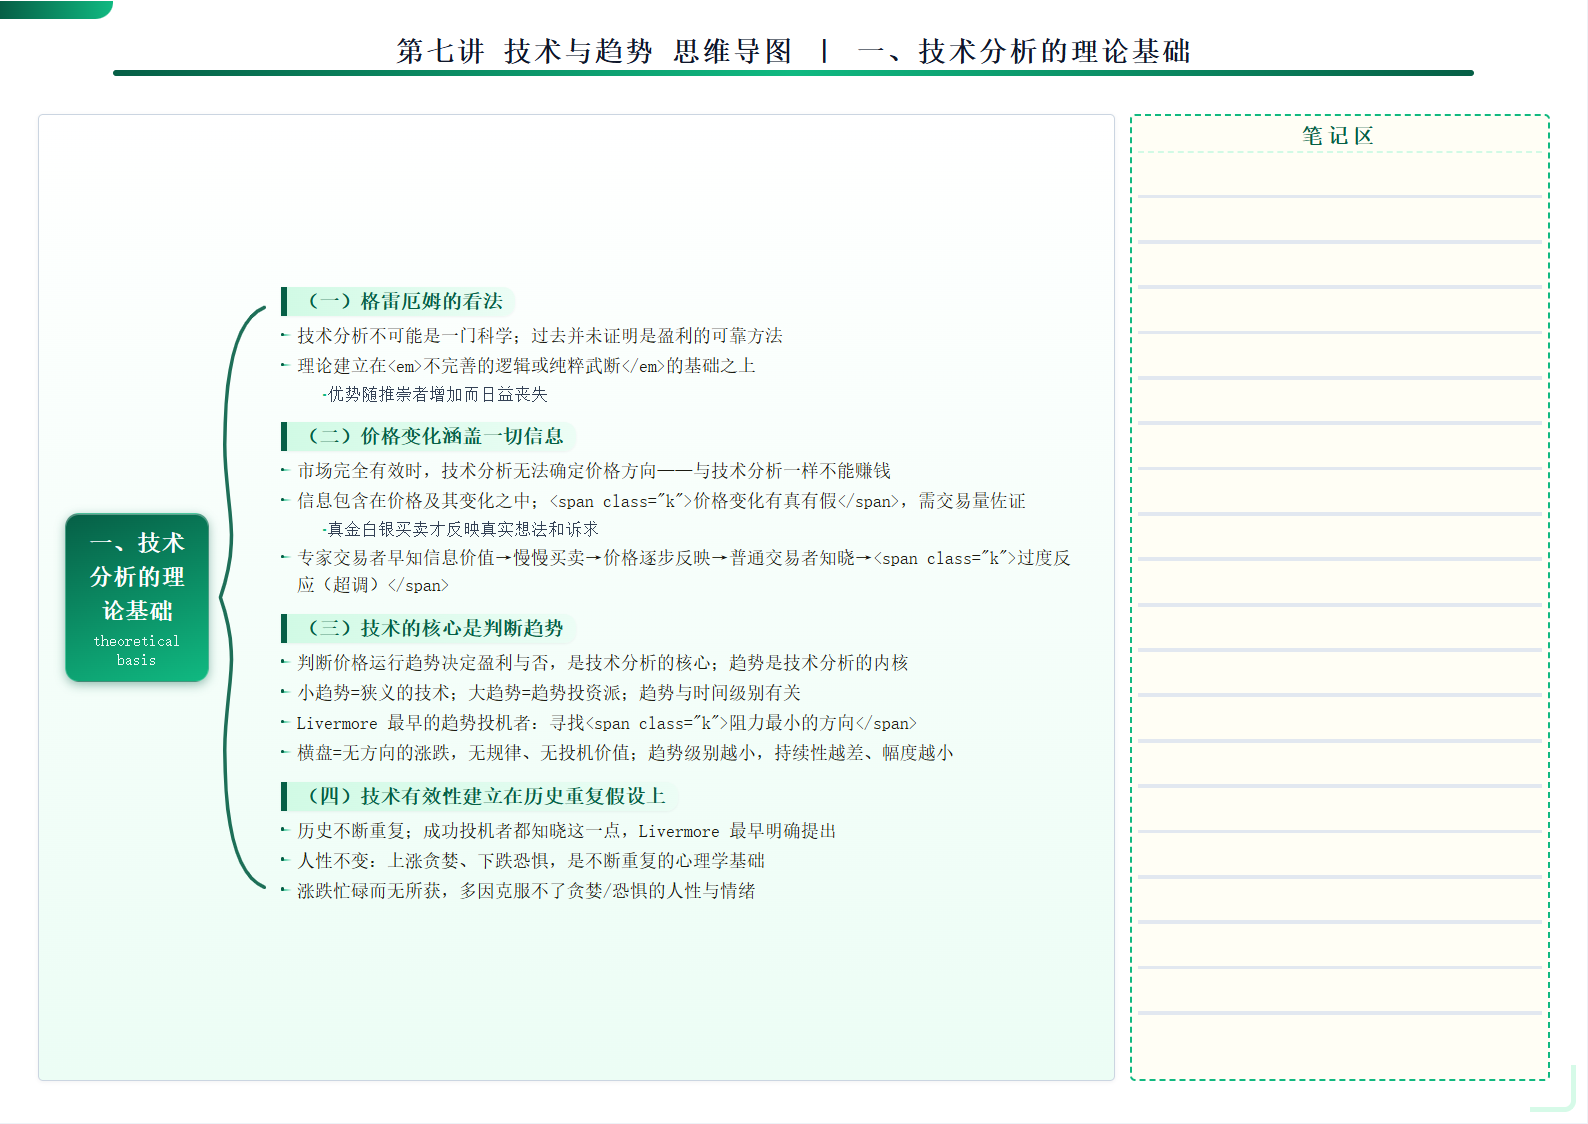
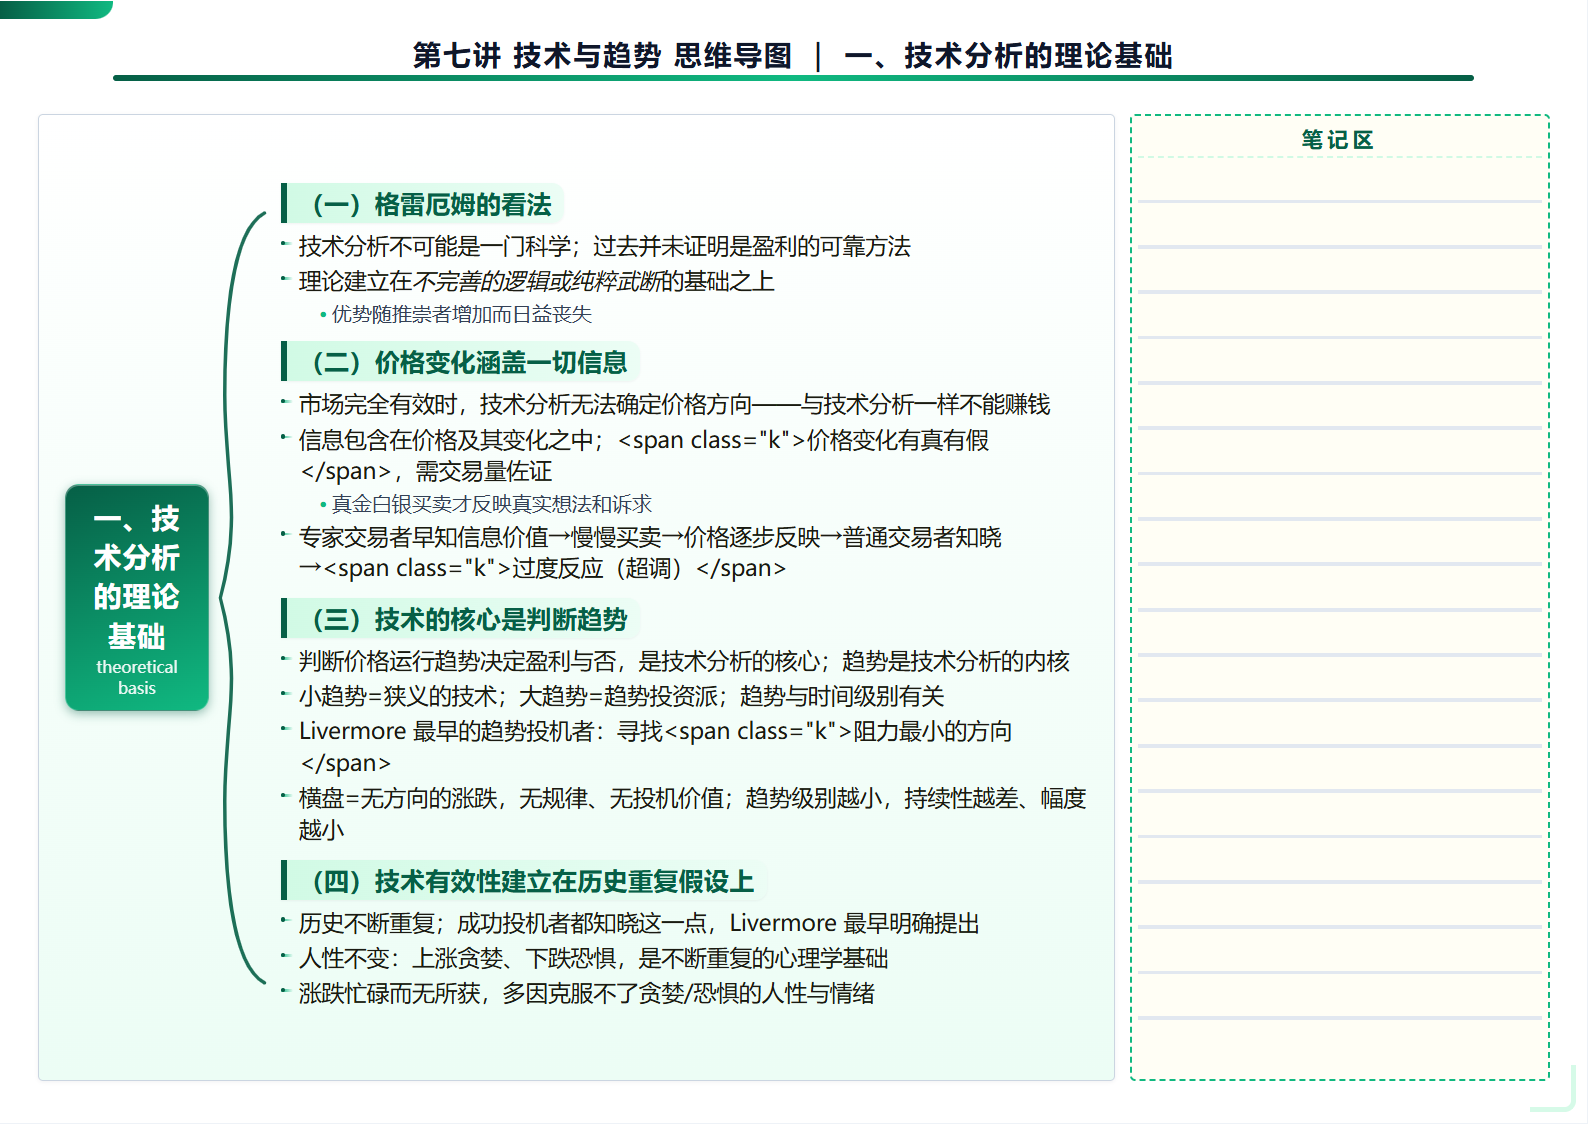
feat: 字号更大并铺满页面 — 条目 17pt 起步、space-evenly 均匀分布
- generator: 条目字号 13.5→17pt 起步（密集页自动降至 12.5–15pt），根 21pt / 分组 19pt / 子条目 15pt；预算 238mm 留余量防溢出
- .mm/.mm-stack 改 space-evenly，内容均匀铺满页面（填充率 60–96%），不再垂直居中留白
- skill/README: 同步字号与铺满规范
- 实测第七讲 8 页全部无溢出，条目 17.3–22.7px

diff --git a/src/host/generator.ts b/src/host/generator.ts
@@ -173,29 +173,30 @@ export interface RenderResult {
 
 /* ── budget math (mirrors the reference typography) ─────────────────────── */
 
-/** Reference item font sizes (pt). */
-const BASE_ITEM_PT = 13.5
-const BASE_SUB_PT = 12.5
-const MIN_ITEM_PT = 11
-/** Content column usable height: 256mm page minus 6mm+7mm padding. */
-const CONTENT_BUDGET_MM = 243
-/** A 13.5pt SimSun line holds roughly this many CJK glyphs in 271mm. */
-const GLYPHS_PER_LINE = 48
+/** Reference item font sizes (pt) — large, to fill the page. */
+const BASE_ITEM_PT = 17
+const BASE_SUB_PT = 15
+const MIN_ITEM_PT = 12.5
+/** Content column usable height: 256mm page minus 6mm+7mm padding,
+    minus a safety margin for space-evenly distribution. */
+const CONTENT_BUDGET_MM = 238
+/** A 17pt line holds roughly this many CJK glyphs in 271mm. */
+const GLYPHS_PER_LINE = 40
 
 /** Estimate the rendered height (mm) of one group at a given item pt. */
 function measureGroup(group: MindmapGroup, itemPt: number): number {
   const scale = itemPt / BASE_ITEM_PT
-  const lineHeight = itemPt * 1.5 * 0.3528 // pt → mm
-  const subLineHeight = Math.max(BASE_SUB_PT * scale, 9) * 1.45 * 0.3528
-  const head = 10 * scale // .mm-h block
+  const lineHeight = itemPt * 1.45 * 0.3528 // pt → mm (compact line-height)
+  const subLineHeight = Math.max(BASE_SUB_PT * scale, 10.5) * 1.4 * 0.3528
+  const head = 11 * scale // .mm-h block
   let total = head
   for (const item of group.items) {
     const text = item.text.replace(/<[^>]*>/g, '')
     const lines = Math.max(1, Math.ceil(text.length / GLYPHS_PER_LINE))
-    total += lines * lineHeight + 2.8 * scale // item margin 0.8mm × 2 + line-height slack
+    total += lines * lineHeight + 2.2 * scale // item margin
     for (const sub of item.subs ?? []) {
-      const subLines = Math.max(1, Math.ceil(sub.length / (GLYPHS_PER_LINE - 6)))
-      total += subLines * subLineHeight + 1.8 * scale
+      const subLines = Math.max(1, Math.ceil(sub.length / (GLYPHS_PER_LINE - 5)))
+      total += subLines * subLineHeight + 1.5 * scale
     }
   }
   return total
@@ -205,10 +206,10 @@ function measureGroup(group: MindmapGroup, itemPt: number): number {
 function measureBranch(branch: MindmapBranch, itemPt: number): number {
   let total = 0
   for (const group of branch.groups) total += measureGroup(group, itemPt)
-  return total + (branch.groups.length - 1) * 5.6 // .mm-group margins
+  return total + (branch.groups.length - 1) * 4.5 // .mm-group margins
 }
 
-/** Pick the largest item font ≤ 13.5pt that fits, or the floor. */
+/** Pick the largest item font ≤ 17pt that fits, or the floor. */
 function fitFont(branch: MindmapBranch): { pt: number; usedMm: number; overflow: boolean } {
   let pt = BASE_ITEM_PT
   let used = measureBranch(branch, pt)
@@ -268,20 +269,20 @@ html,body{font-family:"Microsoft YaHei","微软雅黑","PingFang SC","Noto Sans 
 .right{position:absolute;right:10mm;top:30mm;width:111mm;height:256mm;border:2px dashed var(--c2);padding:4px 6px;border-radius:5px;background:#fffef5}
 .rh{font-size:16pt;color:var(--c1);border-bottom:2px dashed var(--c3);padding:4px 0 3px;text-align:center;font-weight:bold;letter-spacing:4px}
 .lines{height:232mm;background:repeating-linear-gradient(to bottom,transparent,transparent 11mm,#e2e8f0 11mm,#e2e8f0 12mm)}
-.mm{height:100%;display:flex;flex-direction:column;justify-content:center}
+.mm{height:100%;display:flex;flex-direction:column;justify-content:space-evenly}
 .mm-row{display:flex;align-items:stretch;width:100%}
 .mm-root{flex:0 0 40mm;width:40mm;display:flex;align-items:center;justify-content:center;padding-right:2mm}
-.mm-root .box{background:linear-gradient(160deg,var(--c1),var(--c2));color:#fff;padding:12px 14px;border-radius:14px;font-weight:bold;line-height:1.5;text-align:center;letter-spacing:1px;box-shadow:0 3px 10px color-mix(in srgb,var(--c1) 40%,transparent),inset 0 1px 0 rgba(255,255,255,.35);max-width:38mm;border:1px solid rgba(255,255,255,.25)}
+.mm-root .box{background:linear-gradient(160deg,var(--c1),var(--c2));color:#fff;padding:12px 14px;border-radius:14px;font-weight:bold;line-height:1.4;text-align:center;letter-spacing:1px;box-shadow:0 3px 10px color-mix(in srgb,var(--c1) 40%,transparent),inset 0 1px 0 rgba(255,255,255,.35);max-width:38mm;border:1px solid rgba(255,255,255,.25)}
 .mm-root .en{display:block;font-weight:normal;opacity:.92;margin-top:3px;letter-spacing:0;line-height:1.3}
 .mm-brace{width:14mm;flex:0 0 14mm;display:flex;align-items:stretch}
 .mm-brace svg{width:100%;height:100%;display:block}
-.mm-stack{flex:1;min-width:0;padding-left:3mm;display:flex;flex-direction:column;justify-content:center;overflow:hidden}
-.mm-group{margin:1.6mm 0}
+.mm-stack{flex:1;min-width:0;padding-left:3mm;display:flex;flex-direction:column;justify-content:space-evenly;overflow:hidden}
+.mm-group{margin:1.4mm 0}
 .mm-h{font-weight:bold;color:var(--c1);background:linear-gradient(90deg,var(--c3),var(--c4));border-left:6px solid var(--c1);padding:3px 12px;margin-bottom:1mm;border-radius:0 12px 12px 0;display:inline-block;box-shadow:0 1px 2px rgba(15,23,42,.05)}
-.mm-item{position:relative;line-height:1.5;margin:0.8mm 0;padding-left:16px}
-.mm-item::before{content:"";position:absolute;left:0;top:11px;width:11px;height:2px;border-radius:2px;background:linear-gradient(90deg,var(--c2),transparent)}
-.mm-item::after{content:"";position:absolute;left:0;top:9.5px;width:3.5px;height:3.5px;border-radius:50%;background:var(--c1)}
-.mm-sub{position:relative;line-height:1.45;margin:0.5mm 0 0.5mm 16px;padding-left:14px;color:#334155}
+.mm-item{position:relative;line-height:1.4;margin:0.9mm 0;padding-left:18px}
+.mm-item::before{content:"";position:absolute;left:0;top:12px;width:12px;height:2.5px;border-radius:2px;background:linear-gradient(90deg,var(--c2),transparent)}
+.mm-item::after{content:"";position:absolute;left:0;top:10.5px;width:4.5px;height:4.5px;border-radius:50%;background:var(--c1)}
+.mm-sub{position:relative;line-height:1.4;margin:0.6mm 0 0.6mm 18px;padding-left:15px;color:#334155}
 .mm-sub::before{content:"·";position:absolute;left:2px;top:0;color:var(--c2);font-weight:bold}
 .k{background:#fffde7;padding:0 2px;border-radius:2px;font-weight:bold;color:#000;box-shadow:0 1px 0 rgba(250,204,21,.5)}
 .b{font-weight:bold}
@@ -372,9 +373,10 @@ function coverPage(doc: MindmapDoc, style: MindmapStyleDef): string {
 }
 
 function branchPage(doc: MindmapDoc, style: MindmapStyleDef, branch: MindmapBranch, index: number, itemPt: number): string {
-  const rootSize = Math.max(15, Math.round(17 * itemPt / BASE_ITEM_PT))
-  const headSize = Math.max(13, Math.round(15 * itemPt / BASE_ITEM_PT))
-  const subSize = Math.max(10, Math.round(12.5 * itemPt / BASE_ITEM_PT))
+  const rootSize = Math.max(17, Math.round(21 * itemPt / BASE_ITEM_PT))
+  const headSize = Math.max(15, Math.round(19 * itemPt / BASE_ITEM_PT))
+  const subSize = Math.max(12, Math.round(BASE_SUB_PT * itemPt / BASE_ITEM_PT))
+  const enSize = Math.max(10, Math.round(12 * itemPt / BASE_ITEM_PT))
   const groups = branch.groups
     .map((group) => {
       const items = group.items
@@ -386,7 +388,7 @@ function branchPage(doc: MindmapDoc, style: MindmapStyleDef, branch: MindmapBran
       return `<div class="mm-group"><div class="mm-h" style="font-size:${headSize}pt">${renderInline(group.heading)}</div>${items}</div>`
     })
     .join('')
-  const en = branch.en === undefined ? '' : `<span class="en" style="font-size:${Math.max(9, Math.round(10.5 * itemPt / BASE_ITEM_PT))}pt">${escapeHtml(branch.en)}</span>`
+  const en = branch.en === undefined ? '' : `<span class="en" style="font-size:${enSize}pt">${escapeHtml(branch.en)}</span>`
   return `<div class="page ${styleClass(style)}" ${themeStyle(style, index + 1)}>
   <div class="title">${escapeHtml(doc.title)} 思维导图 ｜ ${escapeHtml(branch.id)}、${escapeHtml(branch.title)}</div>
   <div class="left">

diff --git a/README.md b/README.md
@@ -33,8 +33,8 @@
   - 大括号式横向布局：根节点在左（渐变盒 + 高光），SVG 大括号，右侧分组堆叠
   - **字体黑体**（Microsoft YaHei / 微软雅黑 / 思源黑体），比宋体更清晰现代
   - **美术美工**：4 种风格 × 每风格多套主题色按页轮换；根节点渐变、分组标题主色胶囊、条目圆点连接线、页眉渐变分隔线、页角装饰；节点圆角、配色克制、布局平衡、留白呼吸感
-  - 字号相对大（标题 21pt / 根 17pt / 分组 15pt / 条目 13.5pt / 子条目 12.5pt）
-  - 防溢出：渲染前按字符量预算，超量自动降字号至 11pt，仍超则报告需拆分主干页
+  - **字号相对大、占满页面**：条目 17pt 起（密集页自动降至 12.5–15pt 保持不溢出），标题/根节点 21pt、分组 19pt、子条目 15pt；内容纵向 `space-evenly` 均匀铺满页面（填充率 60–96%），不留大片空白
+  - 防溢出：渲染前按字符量预算，超量自动降字号，仍超则报告需拆分主干页
   - 右侧虚线框笔记区留白，供学生补充
   - 封面页（大标题 + 依据来源 + 目录索引）；可选交互式测试题页（choice/tf/fill/short + 一键批改，题目多时自动紧凑排版）
 
